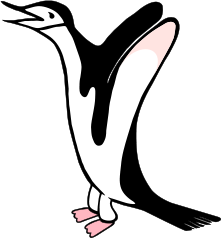
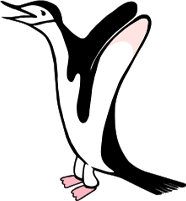
OrthoDelegate content now draws rightside up on android

diff --git a/source_assets/PsdToFsk.jsx b/source_assets/PsdToFsk.jsx
@@ -18,18 +18,27 @@ function main() {
     var docWidth = doc.width.as("px");
     var docHeight = doc.height.as("px");
 
-    var textureNodes = [];
+    var textureCache = {};
+    var usedIds = {};
+    var usedObjectIds = {};
     var objectNodes = [];
     var usedFonts = {};
 
-    processLayers(doc.layers, framesFolder, textureNodes, objectNodes, docHeight, usedFonts);
+    processLayers(doc.layers, framesFolder, textureCache, objectNodes, docHeight, usedFonts, usedIds, usedObjectIds);
 
     var xmlStr = '<?xml version="1.0" encoding="utf-8"?>\n';
     xmlStr += '<frameScene version="1.0" width="' + docWidth + '" height="' + docHeight + '" assetsPath="frames">\n';
     
     xmlStr += '    <textures>\n';
-    for (var i = 0; i < textureNodes.length; i++) {
-        xmlStr += textureNodes[i];
+    var exportedTextures = {};
+    for (var sig in textureCache) {
+        if (textureCache.hasOwnProperty(sig)) {
+            var t = textureCache[sig];
+            if (!exportedTextures[t.id]) {
+                xmlStr += '        <texture id="' + t.id + '" file="' + t.file + '" />\n';
+                exportedTextures[t.id] = true;
+            }
+        }
     }
     xmlStr += '    </textures>\n\n';
 
@@ -59,22 +68,26 @@ function main() {
     alert("Export completed successfully!");
 }
 
-function processLayers(layers, framesFolder, textureNodes, objectNodes, docHeight, usedFonts) {
+function processLayers(layers, framesFolder, textureCache, objectNodes, docHeight, usedFonts, usedIds, usedObjectIds) {
     for (var i = layers.length - 1; i >= 0; i--) {
         var layer = layers[i];
 
         if (layer.typename === "LayerSet") {
-            processLayers(layer.layers, framesFolder, textureNodes, objectNodes, docHeight, usedFonts);
+            processLayers(layer.layers, framesFolder, textureCache, objectNodes, docHeight, usedFonts, usedIds, usedObjectIds);
             continue;
         }
 
-        var layerName = layer.name.replace(/[:\/\\*\?"<>\|]/g, "_");
+        var baseName = layer.name.replace(/ copy( \d+)?$/g, "");
+        var sanitizedBaseName = baseName.replace(/[:\/\\*\?"<>\|]/g, "_");
         
         var bounds = layer.bounds;
         var x = parseInt(bounds[0].as("px"));
         var topY = parseInt(bounds[1].as("px"));
         var w = parseInt(bounds[2].as("px")) - x;
         var h = parseInt(bounds[3].as("px")) - topY;
+
+        if (w <= 0 || h <= 0) continue;
+
         var isVisible = layer.visible ? "true" : "false";
         
         var layerOpacityNormalized = layer.opacity / 100.0;
@@ -123,7 +136,7 @@ function processLayers(layers, framesFolder, textureNodes, objectNodes, docHeigh
                 if (textItem.kind === TextType.PARAGRAPHTEXT) {
                     // ActionManager API check for paragraph vertical justification properties
                     var ref = new ActionReference();
-                    ref.playProperty(charIDToTypeID('Prpr'), charIDToTypeID('Txt '));
+                    ref.putProperty(charIDToTypeID('Prpr'), charIDToTypeID('Txt '));
                     ref.putEnumerated(charIDToTypeID('Lyr '), charIDToTypeID('Ordn'), charIDToTypeID('Trgt'));
                     var desc = executeActionGet(ref);
                     if (desc.hasKey(charIDToTypeID('Txt '))) {
@@ -152,18 +165,44 @@ function processLayers(layers, framesFolder, textureNodes, objectNodes, docHeigh
                 vJustify = "bottom"; // Safe system fallback alignment
             }
 
-            var textStr = '        <text id="' + layerName + '" font="' + fontId + '" text="' + textItem.contents + '"\n';
+            var textId = layer.name.replace(/[:\/\\*\?"<>\|]/g, "_");
+            if (usedObjectIds[textId]) {
+                var tCount = 2;
+                while (usedObjectIds[textId + "_" + tCount]) tCount++;
+                textId = textId + "_" + tCount;
+            }
+            usedObjectIds[textId] = true;
+
+            var textStr = '        <text id="' + textId + '" font="' + fontId + '" text="' + textItem.contents + '"\n';
             textStr += '            screenRect="{{' + x + ', ' + reversedY + '}, {' + w + ', ' + h + '}}" hJustify="' + hJustify + '" vJustify="' + vJustify + '" visible="' + isVisible + '" textColor="' + hexColor + '" />\n\n';
             objectNodes.push(textStr);
         } else {
-            exportPngLayer(layer, layerName, framesFolder);
+            var sig = sanitizedBaseName + "_" + w + "x" + h;
+            var textureId;
 
-            var texStr = '        <texture id="' + layerName + '" file="' + layerName + '.png" />\n';
-            textureNodes.push(texStr);
+            if (textureCache[sig]) {
+                textureId = textureCache[sig].id;
+            } else {
+                textureId = sanitizedBaseName;
+                if (usedIds[textureId]) {
+                    textureId = sanitizedBaseName + "_" + w + "x" + h;
+                }
+
+                exportPngLayer(layer, textureId, framesFolder);
+                textureCache[sig] = { id: textureId, file: textureId + ".png" };
+                usedIds[textureId] = true;
+            }
 
             var opacityAttr = layerOpacityNormalized.toFixed(2).replace(/\.?0+$/, '');
+            var quadId = layer.name.replace(/[:\/\\*\?"<>\|]/g, "_");
+            if (usedObjectIds[quadId]) {
+                var qCount = 2;
+                while (usedObjectIds[quadId + "_" + qCount]) qCount++;
+                quadId = quadId + "_" + qCount;
+            }
+            usedObjectIds[quadId] = true;
 
-            var quadStr = '        <quad id="' + layerName + '" texture="' + layerName + '" screenRect="{{' + x + ', ' + reversedY + '}, {' + w + ', ' + h + '}}" visible="' + isVisible + '" opacity="' + opacityAttr + '" />\n\n';
+            var quadStr = '        <quad id="' + quadId + '" texture="' + textureId + '" screenRect="{{' + x + ', ' + reversedY + '}, {' + w + ', ' + h + '}}" visible="' + isVisible + '" opacity="' + opacityAttr + '" />\n\n';
             objectNodes.push(quadStr);
         }
     }
@@ -187,7 +226,7 @@ function exportPngLayer(layer, filename, folder) {
 
     newDoc.exportDocument(saveFile, ExportType.SAVEFORWEB, exportOptions);
     newDoc.close(SaveOptions.DONOTSAVECHANGES);
-    
+
     doc.activeHistoryState = rememberState;
 }
 

diff --git a/lib/util.dart b/lib/util.dart
@@ -197,20 +197,28 @@ Color parseHexColor(String? hex) {
   }
 }
 
-/// Parses a comma-separated string into a [Vector2].
+/// Parses a space or comma-separated string into a [Vector2].
 /// Returns [Vector2.zero] on failure.
 Vector2 parseVector2(String value) {
-  final parts = value.split(',').map((p) => double.tryParse(p.trim())).toList();
+  final parts = value
+      .split(RegExp(r'[,\s]+'))
+      .where((s) => s.isNotEmpty)
+      .map((p) => double.tryParse(p.trim()))
+      .toList();
   if (parts.length >= 2 && parts[0] != null && parts[1] != null) {
     return Vector2(parts[0]!, parts[1]!);
   }
   return Vector2.zero();
 }
 
-/// Parses a comma-separated string into a [Vector3].
+/// Parses a space or comma-separated string into a [Vector3].
 /// Returns [Vector3.zero] on failure.
 Vector3 parseVector3(String value) {
-  final parts = value.split(',').map((p) => double.tryParse(p.trim())).toList();
+  final parts = value
+      .split(RegExp(r'[,\s]+'))
+      .where((s) => s.isNotEmpty)
+      .map((p) => double.tryParse(p.trim()))
+      .toList();
   if (parts.length >= 3 &&
       parts[0] != null &&
       parts[1] != null &&
@@ -220,10 +228,14 @@ Vector3 parseVector3(String value) {
   return Vector3.zero();
 }
 
-/// Parses a comma-separated string into a [Vector4].
+/// Parses a space or comma-separated string into a [Vector4].
 /// Returns [Vector4.zero] on failure.
 Vector4 parseVector4(String value) {
-  final parts = value.split(',').map((p) => double.tryParse(p.trim())).toList();
+  final parts = value
+      .split(RegExp(r'[,\s]+'))
+      .where((s) => s.isNotEmpty)
+      .map((p) => double.tryParse(p.trim()))
+      .toList();
   if (parts.length >= 4 &&
       parts[0] != null &&
       parts[1] != null &&

diff --git a/lib/ui/navigation_delegates/ortho_view_delegate.dart b/lib/ui/navigation_delegates/ortho_view_delegate.dart
@@ -1,6 +1,7 @@
 import 'dart:ui';
 
 import 'package:flutter/foundation.dart';
+import 'package:fsk/fsk.dart';
 import 'package:fsk/ui/navigation_delegates/scene_navigation_delegate.dart';
 import 'package:vector_math/vector_math_64.dart';
 
@@ -47,15 +48,24 @@ class OrthoViewDelegate extends FskSceneNavigationDelegate implements ScreenRect
   Matrix4 createProjectionMatrix() {
     Matrix4 proj = Matrix4.identity();
 
-    if (kIsWeb) {
-      setOrthographicMatrix(proj, _viewRect.left, _viewRect.right, _viewRect.top, _viewRect.bottom, _zNear, _zFar);
+    // Web and Android require Y-UP orientation for this ortho view, 
+    // while Desktop/iOS use Y-DOWN to match Flutter's coordinate system.
+    if (kIsWeb || defaultTargetPlatform == TargetPlatform.android) {
+      setOrthographicMatrix(
+          proj,
+          _viewRect.left,
+          _viewRect.right,
+          _viewRect.top, // Maps to -1 (bottom of NDC)
+          _viewRect.bottom, // Maps to 1 (top of NDC)
+          _zNear,
+          _zFar);
     } else {
       setOrthographicMatrix(
           proj,
           _viewRect.left,
           _viewRect.right,
-          _viewRect.bottom,
-          _viewRect.top,
+          _viewRect.bottom, // Maps to -1 (bottom of NDC)
+          _viewRect.top, // Maps to 1 (top of NDC)
           _zNear,
           _zFar);
     }

diff --git a/lib/frames/frame_scene_parser.dart b/lib/frames/frame_scene_parser.dart
@@ -208,15 +208,24 @@ class FrameSceneParser with LoggableClass {
     return Vector3.zero();
   }
 
-  /// Converts a comma-separated key:value string into a Map configuration profile
+  /// Converts a semicolon or comma-separated key:value string into a Map configuration profile.
+  /// Semicolons are preferred as delimiters when values (like vectors) contain commas.
   static Map<String, String> _parseShaderParams(String? rawParams) {
     final Map<String, String> paramsMap = {};
     if (rawParams == null || rawParams.trim().isEmpty) {
       return paramsMap;
     }
 
-    // Split parameters by comma separation fields safely
-    final pairs = rawParams.split(',');
+    // Try splitting by semicolon first as it's the safer delimiter for complex values
+    List<String> pairs;
+    if (rawParams.contains(';')) {
+      pairs = rawParams.split(';');
+    } else {
+      // Fallback to comma if no semicolons are found, 
+      // but this may fail if vector values also use commas.
+      pairs = rawParams.split(',');
+    }
+
     for (final pair in pairs) {
       final indexOfColon = pair.indexOf(':');
       if (indexOfColon != -1) {

diff --git a/example/lib/example_scenes.dart b/example/lib/example_scenes.dart
@@ -2,11 +2,11 @@ import 'dart:ui';
 
 import 'package:flutter_angle/flutter_angle.dart';
 import 'package:fsk/fsk.dart';
+import 'package:fsk_examples/shader_params_example.dart';
 import 'animated_checkerboard_scene.dart';
 import 'bitmap_text_scene.dart';
 import 'orbitview_scene.dart';
 import 'checkerboard_scene.dart';
-import 'frame_scene_example.dart';
 
 // The example scenes are placed in an IndexedStackScene that corresponds
 // with the IndexedStack flutter widget to draw only one example scene
@@ -23,7 +23,7 @@ class ExampleScenes extends IndexedStackScene {
     addScene(AnimatedCheckerBoardScene(navigationDelegate: StaticViewDelegate()));
     addScene(OrbitViewScene(navigationDelegate: OrbitViewDelegate()));
     addScene(BitmapTextScene(navigationDelegate: OrthoViewDelegate()));
-    addScene(FrameSceneExample( navigationDelegate: OrthoViewDelegate()));
+    addScene(ShaderParamsExample( navigationDelegate: OrthoViewDelegate()));
 
     setCurrentScene(0);
   }

diff --git a/lib/shaders/grid_shader.dart b/lib/shaders/grid_shader.dart
@@ -157,6 +157,7 @@ class GridShader extends GlslShader {
     _majorLineColorLocation = uniforms[uMajorLineColor]!;
     _minorLineColorLocation = uniforms[uMinorLineColor]!;
     _mmLineColorLocation = uniforms[ummLineColor]!;
+    print("BUILDING GRID SHADER");
   }
 
   void setResolutionMM(num width, num height) {